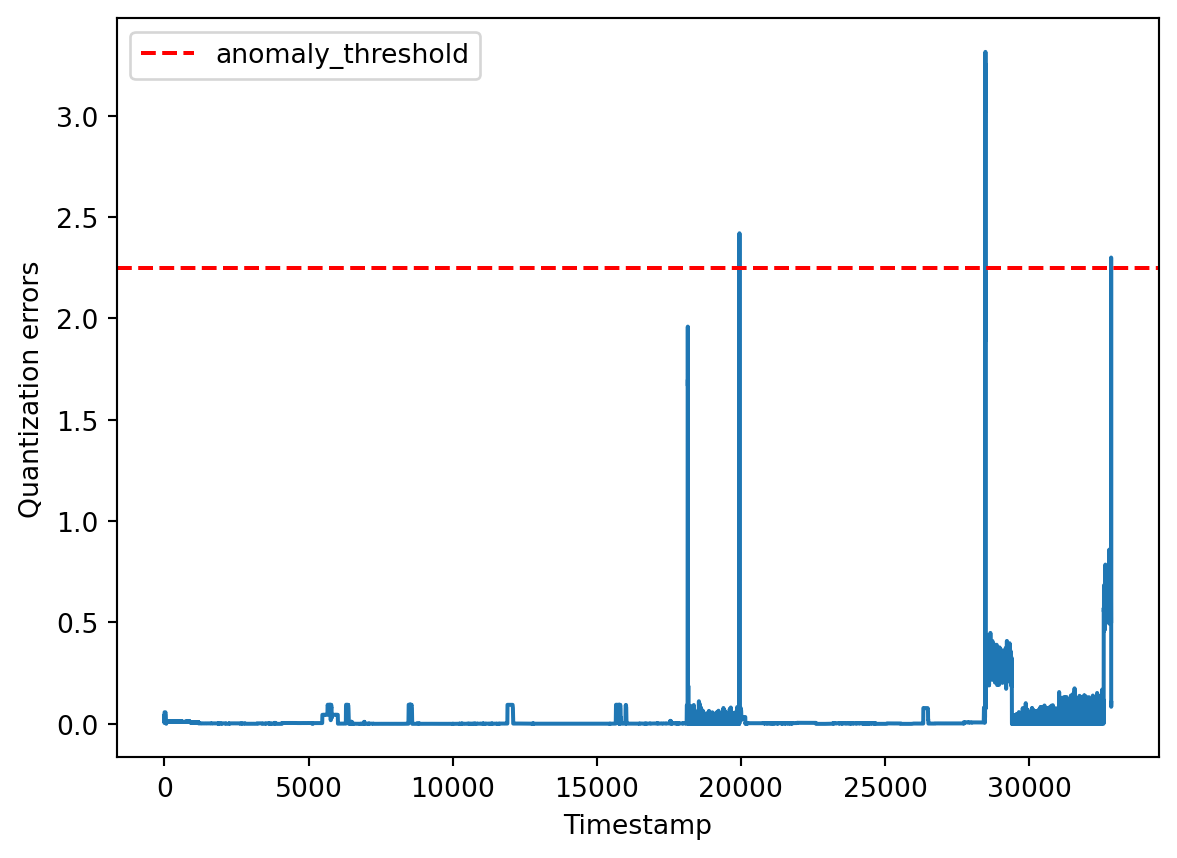
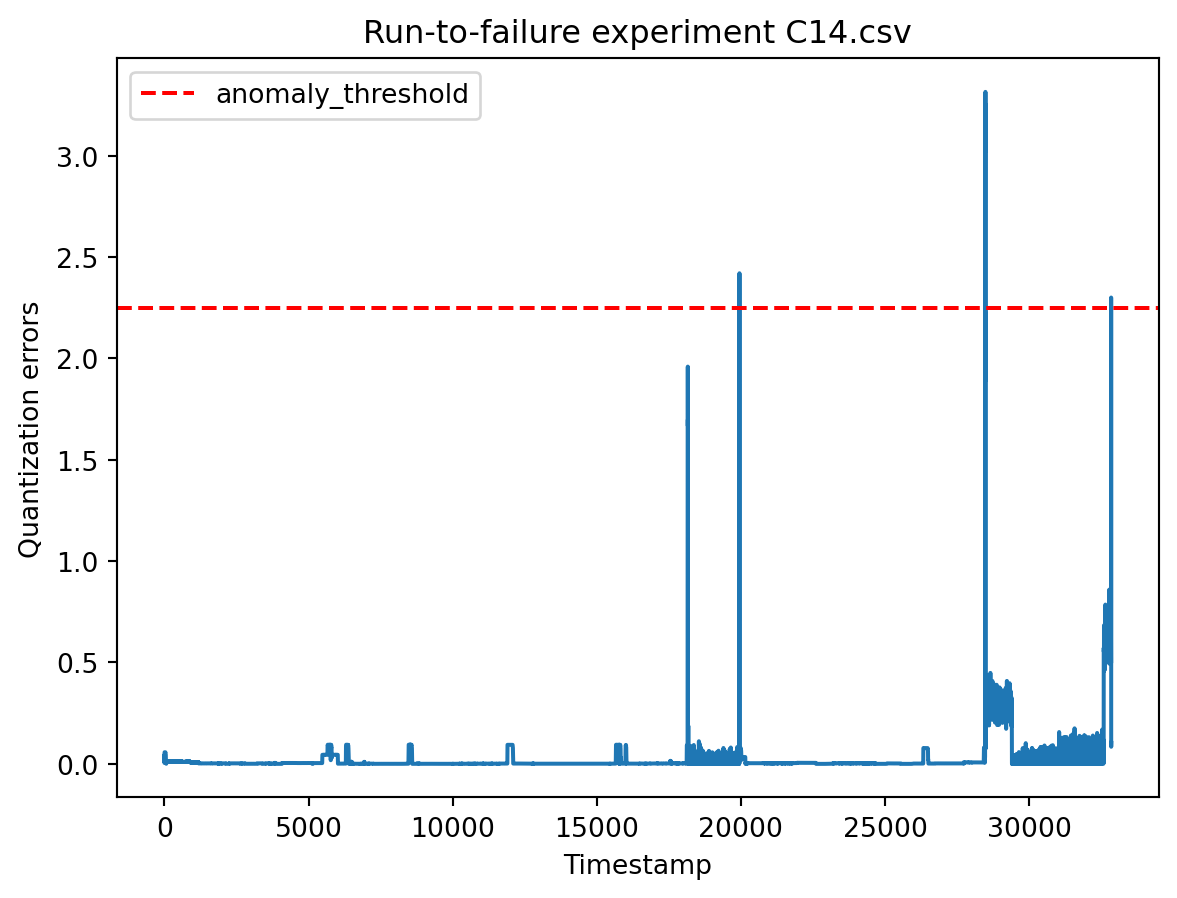
changed yaml to add freeze and added categories to blog front matter

diff --git a/docs/posts/Anomaly_detection/index.html b/docs/posts/Anomaly_detection/index.html
@@ -7,7 +7,7 @@
 <meta name="viewport" content="width=device-width, initial-scale=1.0, user-scalable=yes">
 
 <meta name="author" content="Manoj Subedi">
-<meta name="dcterms.date" content="2023-12-06">
+<meta name="dcterms.date" content="2023-12-07">
 
 <title>man0ZZZ.github.io - Anomlay detection for a production plant</title>
 <style>
@@ -167,7 +167,7 @@ pre > code.sourceCode > span > a:first-child::before { text-decoration: underlin
       <div>
       <div class="quarto-title-meta-heading">Published</div>
       <div class="quarto-title-meta-contents">
-        <p class="date">December 6, 2023</p>
+        <p class="date">December 7, 2023</p>
       </div>
     </div>
     
@@ -199,7 +199,7 @@ pre > code.sourceCode > span > a:first-child::before { text-decoration: underlin
 <span id="cb1-4"><a href="#cb1-4" aria-hidden="true" tabindex="-1"></a><span class="im">import</span> os</span></code><button title="Copy to Clipboard" class="code-copy-button"><i class="bi"></i></button></pre></div>
 </div>
 <div class="cell" data-execution_count="3">
-<div class="cell-output cell-output-display" data-execution_count="5">
+<div class="cell-output cell-output-display" data-execution_count="6">
 <div>
 
 
@@ -496,7 +496,7 @@ pre > code.sourceCode > span > a:first-child::before { text-decoration: underlin
 <span id="cb5-7"><a href="#cb5-7" aria-hidden="true" tabindex="-1"></a>df_roc.columns<span class="op">=</span>exp_names</span>
 <span id="cb5-8"><a href="#cb5-8" aria-hidden="true" tabindex="-1"></a>df_roc <span class="op">=</span> df_roc.T</span>
 <span id="cb5-9"><a href="#cb5-9" aria-hidden="true" tabindex="-1"></a>df_roc.head(<span class="dv">5</span>)</span></code><button title="Copy to Clipboard" class="code-copy-button"><i class="bi"></i></button></pre></div>
-<div class="cell-output cell-output-display" data-execution_count="11">
+<div class="cell-output cell-output-display" data-execution_count="12">
 <div>
 
 
@@ -658,7 +658,7 @@ pre > code.sourceCode > span > a:first-child::before { text-decoration: underlin
 <div class="cell" data-execution_count="10">
 <div class="sourceCode cell-code" id="cb6"><pre class="sourceCode python code-with-copy"><code class="sourceCode python"><span id="cb6-1"><a href="#cb6-1" aria-hidden="true" tabindex="-1"></a><span class="co"># selecting features with highest average roc score across all run-to-failure experiments</span></span>
 <span id="cb6-2"><a href="#cb6-2" aria-hidden="true" tabindex="-1"></a>df_roc.mean().sort_values(ascending<span class="op">=</span><span class="va">False</span>)[<span class="dv">0</span>:<span class="dv">5</span>]</span></code><button title="Copy to Clipboard" class="code-copy-button"><i class="bi"></i></button></pre></div>
-<div class="cell-output cell-output-display" data-execution_count="12">
+<div class="cell-output cell-output-display" data-execution_count="13">
 <pre><code>L_1    0.993399
 L_9    0.937474
 L_3    0.933457
@@ -707,7 +707,7 @@ dtype: float64</code></pre>
 <span id="cb12-2"><a href="#cb12-2" aria-hidden="true" tabindex="-1"></a>threshold <span class="op">=</span> np.percentile(reconstruction_errors, <span class="fl">99.99</span>)</span>
 <span id="cb12-3"><a href="#cb12-3" aria-hidden="true" tabindex="-1"></a><span class="bu">print</span>(<span class="st">'threshold for anomaly detection:'</span>, threshold)</span></code><button title="Copy to Clipboard" class="code-copy-button"><i class="bi"></i></button></pre></div>
 <div class="cell-output cell-output-stdout">
-<pre><code>threshold for anomaly detection: 2.2508852337037824</code></pre>
+<pre><code>threshold for anomaly detection: 2.2508852337037815</code></pre>
 </div>
 </div>
 </section>
@@ -729,21 +729,22 @@ dtype: float64</code></pre>
 <span id="cb14-12"><a href="#cb14-12" aria-hidden="true" tabindex="-1"></a>  <span class="cf">for</span> j <span class="kw">in</span> <span class="bu">range</span>(<span class="bu">len</span>(new_data_errors)):</span>
 <span id="cb14-13"><a href="#cb14-13" aria-hidden="true" tabindex="-1"></a>    <span class="cf">if</span> new_data_errors[j] <span class="op">&gt;</span> threshold:</span>
 <span id="cb14-14"><a href="#cb14-14" aria-hidden="true" tabindex="-1"></a>      anomaly_timestamp.append(j)</span>
-<span id="cb14-15"><a href="#cb14-15" aria-hidden="true" tabindex="-1"></a></span>
-<span id="cb14-16"><a href="#cb14-16" aria-hidden="true" tabindex="-1"></a>  plt.plot(<span class="bu">range</span>(<span class="bu">len</span>(data_set.index)), new_data_errors)</span>
-<span id="cb14-17"><a href="#cb14-17" aria-hidden="true" tabindex="-1"></a>  plt.axhline(y<span class="op">=</span>threshold, color<span class="op">=</span><span class="st">'red'</span>, linestyle<span class="op">=</span><span class="st">'--'</span>, label<span class="op">=</span><span class="st">'anomaly_threshold'</span>.<span class="bu">format</span>(threshold))</span>
-<span id="cb14-18"><a href="#cb14-18" aria-hidden="true" tabindex="-1"></a>  plt.xlabel(<span class="st">'Timestamp'</span>)</span>
-<span id="cb14-19"><a href="#cb14-19" aria-hidden="true" tabindex="-1"></a>  plt.ylabel(<span class="st">'Quantization errors'</span>)</span>
+<span id="cb14-15"><a href="#cb14-15" aria-hidden="true" tabindex="-1"></a>  plt.plot(<span class="bu">range</span>(<span class="bu">len</span>(data_set.index)), new_data_errors)</span>
+<span id="cb14-16"><a href="#cb14-16" aria-hidden="true" tabindex="-1"></a>  plt.axhline(y<span class="op">=</span>threshold, color<span class="op">=</span><span class="st">'red'</span>, linestyle<span class="op">=</span><span class="st">'--'</span>, label<span class="op">=</span><span class="st">'anomaly_threshold'</span>.<span class="bu">format</span>(threshold))</span>
+<span id="cb14-17"><a href="#cb14-17" aria-hidden="true" tabindex="-1"></a>  plt.xlabel(<span class="st">'Timestamp'</span>)</span>
+<span id="cb14-18"><a href="#cb14-18" aria-hidden="true" tabindex="-1"></a>  plt.ylabel(<span class="st">'Quantization errors'</span>)</span>
+<span id="cb14-19"><a href="#cb14-19" aria-hidden="true" tabindex="-1"></a>  plt.title(<span class="st">'Run-to-failure experiment '</span><span class="op">+</span>exp_names[i])</span>
 <span id="cb14-20"><a href="#cb14-20" aria-hidden="true" tabindex="-1"></a>  plt.legend()</span>
 <span id="cb14-21"><a href="#cb14-21" aria-hidden="true" tabindex="-1"></a>  plt.show()</span>
-<span id="cb14-22"><a href="#cb14-22" aria-hidden="true" tabindex="-1"></a>  <span class="cf">if</span> <span class="bu">len</span>(anomaly_timestamp)<span class="op">&lt;=</span><span class="dv">1</span>:</span>
-<span id="cb14-23"><a href="#cb14-23" aria-hidden="true" tabindex="-1"></a>    <span class="bu">print</span>(<span class="st">'No anomaly detected'</span>)</span>
-<span id="cb14-24"><a href="#cb14-24" aria-hidden="true" tabindex="-1"></a>    <span class="cf">continue</span></span>
-<span id="cb14-25"><a href="#cb14-25" aria-hidden="true" tabindex="-1"></a>  <span class="cf">else</span>:</span>
-<span id="cb14-26"><a href="#cb14-26" aria-hidden="true" tabindex="-1"></a>    <span class="cf">for</span> k <span class="kw">in</span> <span class="bu">range</span>(<span class="bu">len</span>(anomaly_timestamp)<span class="op">-</span><span class="dv">1</span>):</span>
-<span id="cb14-27"><a href="#cb14-27" aria-hidden="true" tabindex="-1"></a>      <span class="cf">if</span> anomaly_timestamp[k<span class="op">+</span><span class="dv">1</span>]<span class="op">-</span>anomaly_timestamp[k]<span class="op">&lt;=</span><span class="dv">10</span>:</span>
-<span id="cb14-28"><a href="#cb14-28" aria-hidden="true" tabindex="-1"></a>        <span class="bu">print</span>(<span class="st">'First instance of anomaly detected at Timestamp:'</span>, anomaly_timestamp[k])</span>
-<span id="cb14-29"><a href="#cb14-29" aria-hidden="true" tabindex="-1"></a>        <span class="cf">break</span></span></code><button title="Copy to Clipboard" class="code-copy-button"><i class="bi"></i></button></pre></div>
+<span id="cb14-22"><a href="#cb14-22" aria-hidden="true" tabindex="-1"></a></span>
+<span id="cb14-23"><a href="#cb14-23" aria-hidden="true" tabindex="-1"></a>  <span class="cf">if</span> <span class="bu">len</span>(anomaly_timestamp)<span class="op">&lt;=</span><span class="dv">1</span>:</span>
+<span id="cb14-24"><a href="#cb14-24" aria-hidden="true" tabindex="-1"></a>    <span class="bu">print</span>(<span class="st">'No anomaly detected'</span>)</span>
+<span id="cb14-25"><a href="#cb14-25" aria-hidden="true" tabindex="-1"></a>    <span class="cf">continue</span></span>
+<span id="cb14-26"><a href="#cb14-26" aria-hidden="true" tabindex="-1"></a>  <span class="cf">else</span>:</span>
+<span id="cb14-27"><a href="#cb14-27" aria-hidden="true" tabindex="-1"></a>    <span class="cf">for</span> k <span class="kw">in</span> <span class="bu">range</span>(<span class="bu">len</span>(anomaly_timestamp)<span class="op">-</span><span class="dv">1</span>):</span>
+<span id="cb14-28"><a href="#cb14-28" aria-hidden="true" tabindex="-1"></a>      <span class="cf">if</span> anomaly_timestamp[k<span class="op">+</span><span class="dv">1</span>]<span class="op">-</span>anomaly_timestamp[k]<span class="op">&lt;=</span><span class="dv">10</span>:</span>
+<span id="cb14-29"><a href="#cb14-29" aria-hidden="true" tabindex="-1"></a>        <span class="bu">print</span>(<span class="st">'First instance of anomaly detected at Timestamp:'</span>, anomaly_timestamp[k])</span>
+<span id="cb14-30"><a href="#cb14-30" aria-hidden="true" tabindex="-1"></a>        <span class="cf">break</span></span></code><button title="Copy to Clipboard" class="code-copy-button"><i class="bi"></i></button></pre></div>
 <div class="cell-output cell-output-stdout">
 <pre><code>                                                                    
                                                                     
@@ -787,28 +788,28 @@ timestamp duration: 0 to 34245
 First instance of anomaly detected at Timestamp: 13702</code></pre>
 </div>
 <div class="cell-output cell-output-display">
-<p><img src="index_files/figure-html/cell-17-output-2.png" width="576" height="429"></p>
+<p><img src="index_files/figure-html/cell-17-output-2.png" width="576" height="449"></p>
 </div>
 <div class="cell-output cell-output-display">
-<p><img src="index_files/figure-html/cell-17-output-3.png" width="589" height="429"></p>
+<p><img src="index_files/figure-html/cell-17-output-3.png" width="589" height="449"></p>
 </div>
 <div class="cell-output cell-output-display">
-<p><img src="index_files/figure-html/cell-17-output-4.png" width="589" height="429"></p>
+<p><img src="index_files/figure-html/cell-17-output-4.png" width="589" height="449"></p>
 </div>
 <div class="cell-output cell-output-display">
-<p><img src="index_files/figure-html/cell-17-output-5.png" width="576" height="429"></p>
+<p><img src="index_files/figure-html/cell-17-output-5.png" width="576" height="449"></p>
 </div>
 <div class="cell-output cell-output-display">
-<p><img src="index_files/figure-html/cell-17-output-6.png" width="589" height="429"></p>
+<p><img src="index_files/figure-html/cell-17-output-6.png" width="589" height="449"></p>
 </div>
 <div class="cell-output cell-output-display">
-<p><img src="index_files/figure-html/cell-17-output-7.png" width="576" height="429"></p>
+<p><img src="index_files/figure-html/cell-17-output-7.png" width="576" height="449"></p>
 </div>
 <div class="cell-output cell-output-display">
-<p><img src="index_files/figure-html/cell-17-output-8.png" width="592" height="429"></p>
+<p><img src="index_files/figure-html/cell-17-output-8.png" width="592" height="449"></p>
 </div>
 <div class="cell-output cell-output-display">
-<p><img src="index_files/figure-html/cell-17-output-9.png" width="593" height="429"></p>
+<p><img src="index_files/figure-html/cell-17-output-9.png" width="593" height="449"></p>
 </div>
 </div>
 </section>

diff --git a/docs/index.html b/docs/index.html
@@ -170,7 +170,7 @@ ul.task-list li input[type="checkbox"] {
 
 <div class="quarto-listing quarto-listing-container-default" id="listing-listing">
 <div class="list quarto-listing-default">
-<div class="quarto-post image-right" data-index="0" data-categories="code" data-listing-date-sort="1701924573000" data-listing-file-modified-sort="1701200962012" data-listing-date-modified-sort="NaN" data-listing-reading-time-sort="3">
+<div class="quarto-post image-right" data-index="0" data-categories="code" data-listing-date-sort="1701925354000" data-listing-file-modified-sort="1701200962012" data-listing-date-modified-sort="NaN" data-listing-reading-time-sort="3">
 <div class="thumbnail">
 <p><a href="./posts/Classification/index.html"> <p class="card-img-top"><img src="posts/Classification/index_files/figure-html/cell-5-output-2.png"  class="thumbnail-image card-img"/></p> </a></p>
 </div>
@@ -197,7 +197,7 @@ In this classification analysis…
 <div class="metadata">
 <a href="./posts/Classification/index.html">
 <div class="listing-date">
-Dec 6, 2023
+Dec 7, 2023
 </div>
 <div class="listing-author">
 Manoj Subedi
@@ -205,7 +205,7 @@ Manoj Subedi
 </a>
 </div>
 </div>
-<div class="quarto-post image-right" data-index="1" data-categories="code,anomaly detection,principal component analysis" data-listing-date-sort="1701924573000" data-listing-file-modified-sort="1701924559084" data-listing-date-modified-sort="NaN" data-listing-reading-time-sort="6">
+<div class="quarto-post image-right" data-index="1" data-categories="code,anomaly detection,principal component analysis" data-listing-date-sort="1701925354000" data-listing-file-modified-sort="1701925331522" data-listing-date-modified-sort="NaN" data-listing-reading-time-sort="6">
 <div class="thumbnail">
 <p><a href="./posts/Anomaly_detection/index.html"> <p class="card-img-top"><img src="posts/Anomaly_detection/index_files/figure-html/cell-17-output-2.png"  class="thumbnail-image card-img"/></p> </a></p>
 </div>
@@ -238,7 +238,7 @@ In the complex realm of manufacturing, ensuring the continuous health of machine
 <div class="metadata">
 <a href="./posts/Anomaly_detection/index.html">
 <div class="listing-date">
-Dec 6, 2023
+Dec 7, 2023
 </div>
 <div class="listing-author">
 Manoj Subedi
@@ -246,7 +246,7 @@ Manoj Subedi
 </a>
 </div>
 </div>
-<div class="quarto-post image-right" data-index="2" data-categories="code" data-listing-date-sort="1701924573000" data-listing-file-modified-sort="1701905940353" data-listing-date-modified-sort="NaN" data-listing-reading-time-sort="8">
+<div class="quarto-post image-right" data-index="2" data-categories="code" data-listing-date-sort="1701925354000" data-listing-file-modified-sort="1701905940353" data-listing-date-modified-sort="NaN" data-listing-reading-time-sort="8">
 <div class="thumbnail">
 <p><a href="./posts/Clustering/index.html"> <p class="card-img-top"><img src="posts/Clustering/index_files/figure-html/cell-13-output-2.png"  class="thumbnail-image card-img"/></p> </a></p>
 </div>
@@ -273,7 +273,7 @@ In this blog post, we delve into the fascinating world of clustering to predict 
 <div class="metadata">
 <a href="./posts/Clustering/index.html">
 <div class="listing-date">
-Dec 6, 2023
+Dec 7, 2023
 </div>
 <div class="listing-author">
 Manoj Subedi
@@ -281,7 +281,7 @@ Manoj Subedi
 </a>
 </div>
 </div>
-<div class="quarto-post image-right" data-index="3" data-categories="code" data-listing-date-sort="1701924573000" data-listing-file-modified-sort="1701909758473" data-listing-date-modified-sort="NaN" data-listing-reading-time-sort="5">
+<div class="quarto-post image-right" data-index="3" data-categories="code" data-listing-date-sort="1701925354000" data-listing-file-modified-sort="1701909758473" data-listing-date-modified-sort="NaN" data-listing-reading-time-sort="5">
 <div class="thumbnail">
 <p><a href="./posts/Probability_theory/index.html"> <p class="card-img-top"><img src="posts/Probability_theory/index_files/figure-html/cell-12-output-1.png"  class="thumbnail-image card-img"/></p> </a></p>
 </div>
@@ -308,7 +308,7 @@ In the vast realm of email communication, distinguishing between legitimate (ham
 <div class="metadata">
 <a href="./posts/Probability_theory/index.html">
 <div class="listing-date">
-Dec 6, 2023
+Dec 7, 2023
 </div>
 <div class="listing-author">
 Manoj Subedi
@@ -316,7 +316,7 @@ Manoj Subedi
 </a>
 </div>
 </div>
-<div class="quarto-post image-right" data-index="4" data-categories="code" data-listing-date-sort="1701924573000" data-listing-file-modified-sort="1701449799624" data-listing-date-modified-sort="NaN" data-listing-reading-time-sort="3">
+<div class="quarto-post image-right" data-index="4" data-categories="code" data-listing-date-sort="1701925354000" data-listing-file-modified-sort="1701449799624" data-listing-date-modified-sort="NaN" data-listing-reading-time-sort="3">
 <div class="thumbnail">
 <p><a href="./posts/Regression/index.html"> <p class="card-img-top"><img src="posts/Regression/index_files/figure-html/cell-4-output-2.png"  class="thumbnail-image card-img"/></p> </a></p>
 </div>
@@ -343,7 +343,7 @@ Welcome to a hands-on exploration of solving a regression problem using polynomi
 <div class="metadata">
 <a href="./posts/Regression/index.html">
 <div class="listing-date">
-Dec 6, 2023
+Dec 7, 2023
 </div>
 <div class="listing-author">
 Manoj Subedi
